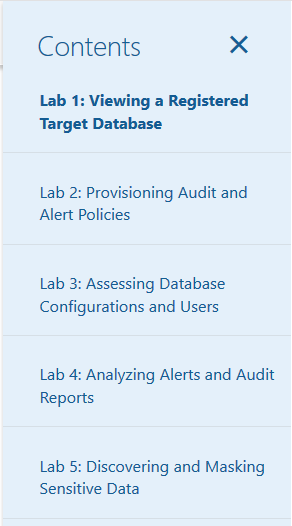
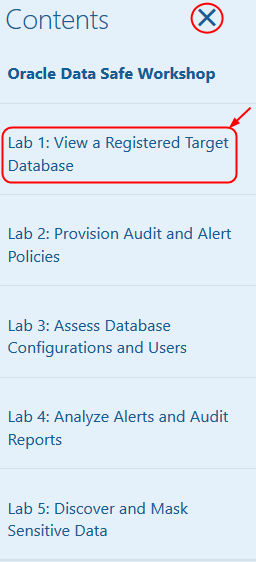
Updated Intro lab

diff --git a/security/data-safe/README.md b/security/data-safe/README.md
@@ -5,9 +5,11 @@ This workshop lets you practice the main features in Oracle Data Safe, including
 
 ## Access the labs
 
-Use the Contents Menu to access the labs.
+Use the Contents Menu to access the next lab. For example, to proceed to Lab 1, click **Lab 1: View a Registered Target Database** from the menu on the right.
 
-![](./img/Menu.png " ")
+Close the menu by clicking the **X**.
+
+![](./img/Menu.png " ") 
 
 If the menu is not diplayed, you can open by clicking the menu button  
 ![Menu icon](./img/MenuButton.png).
